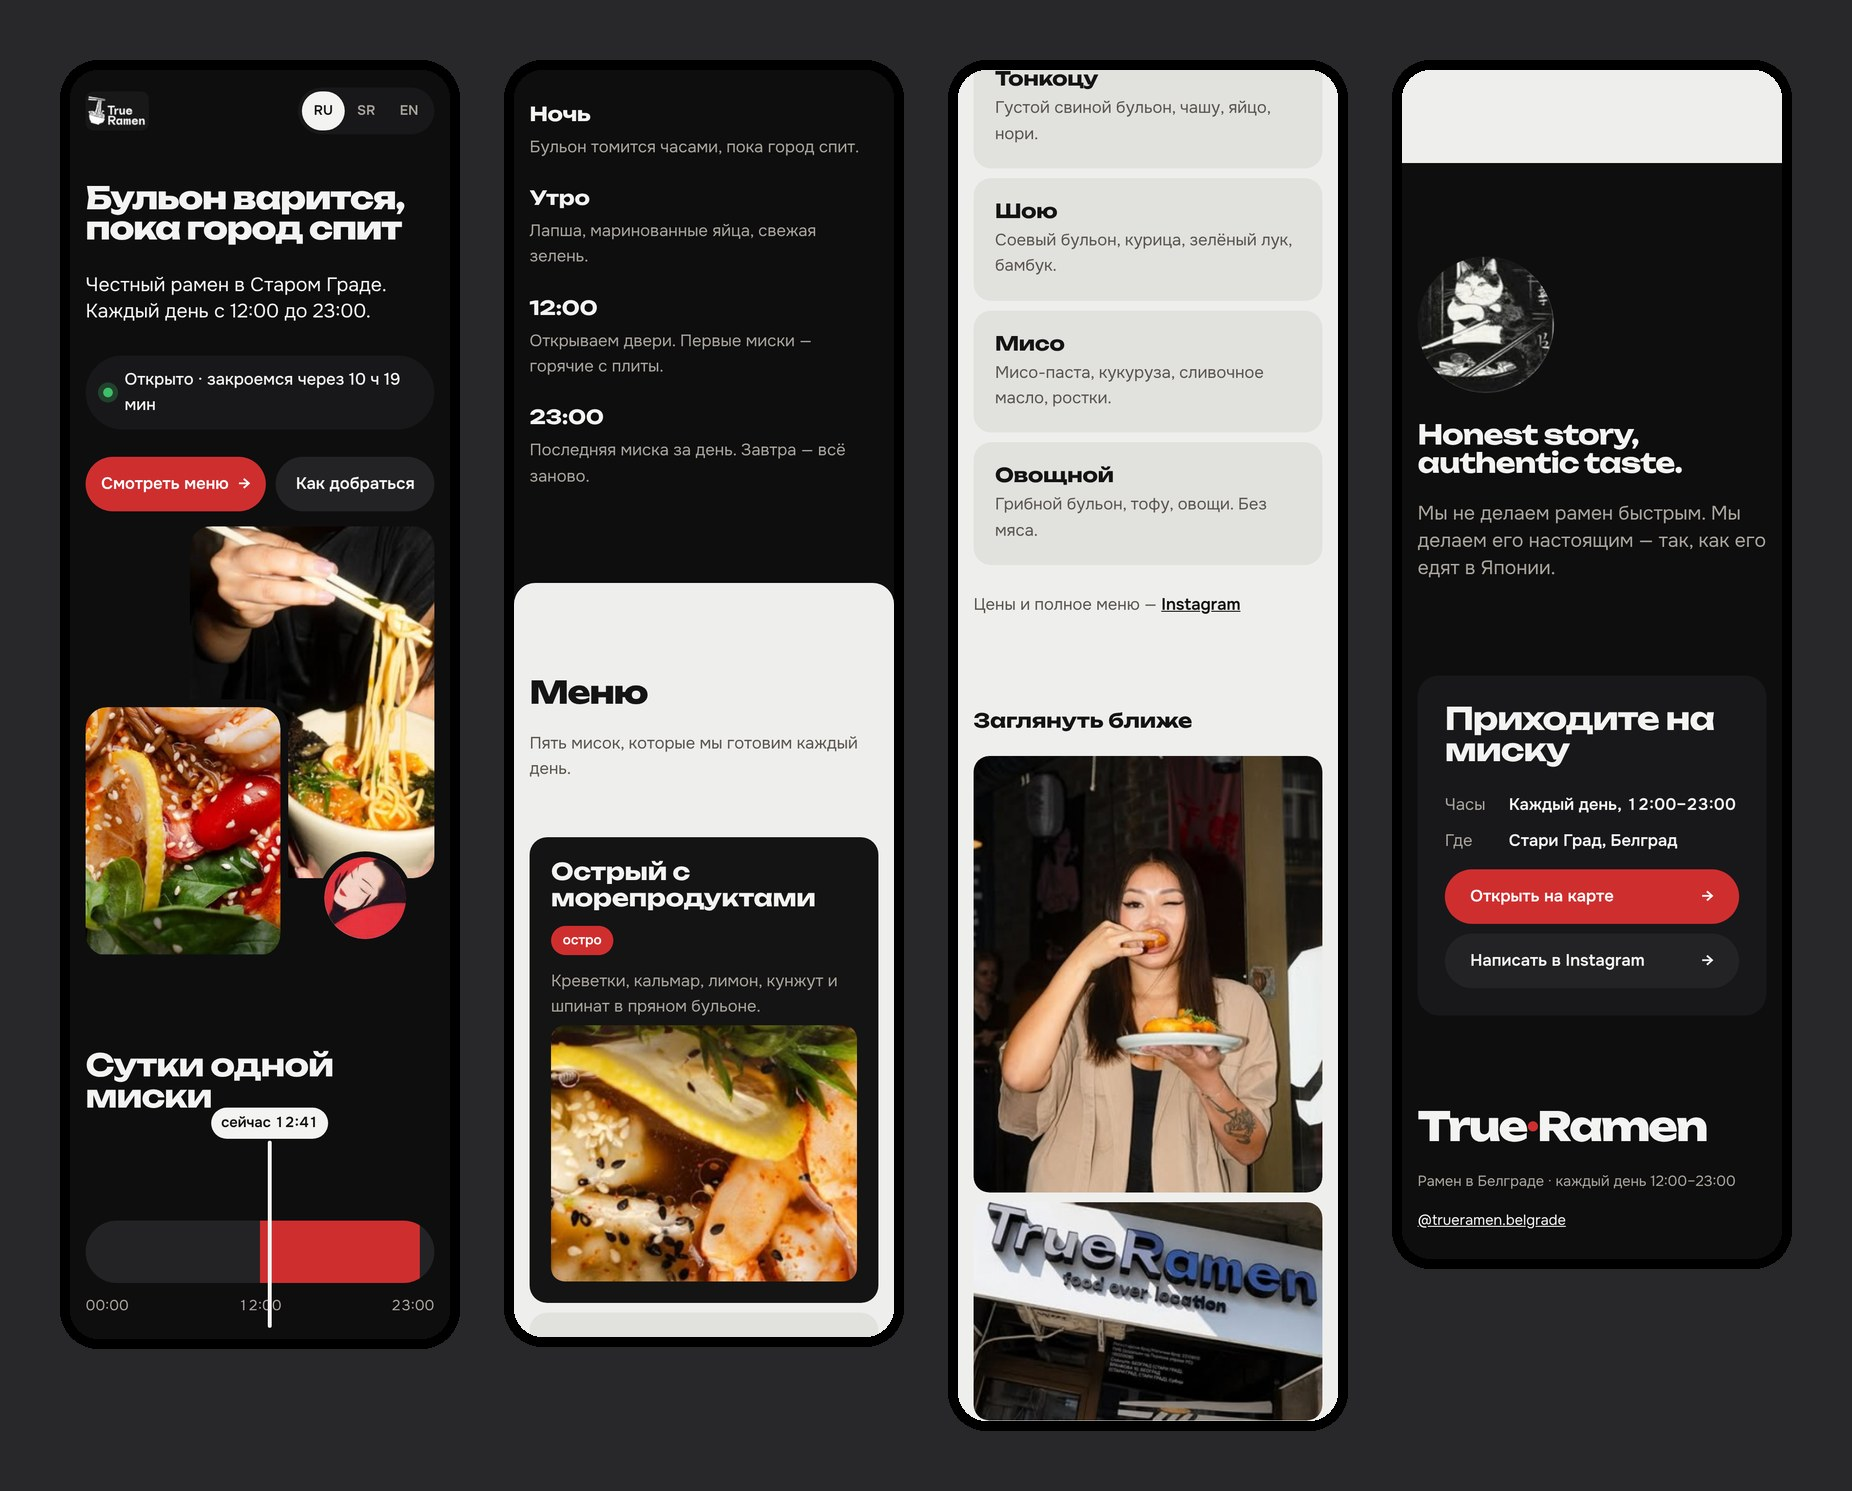
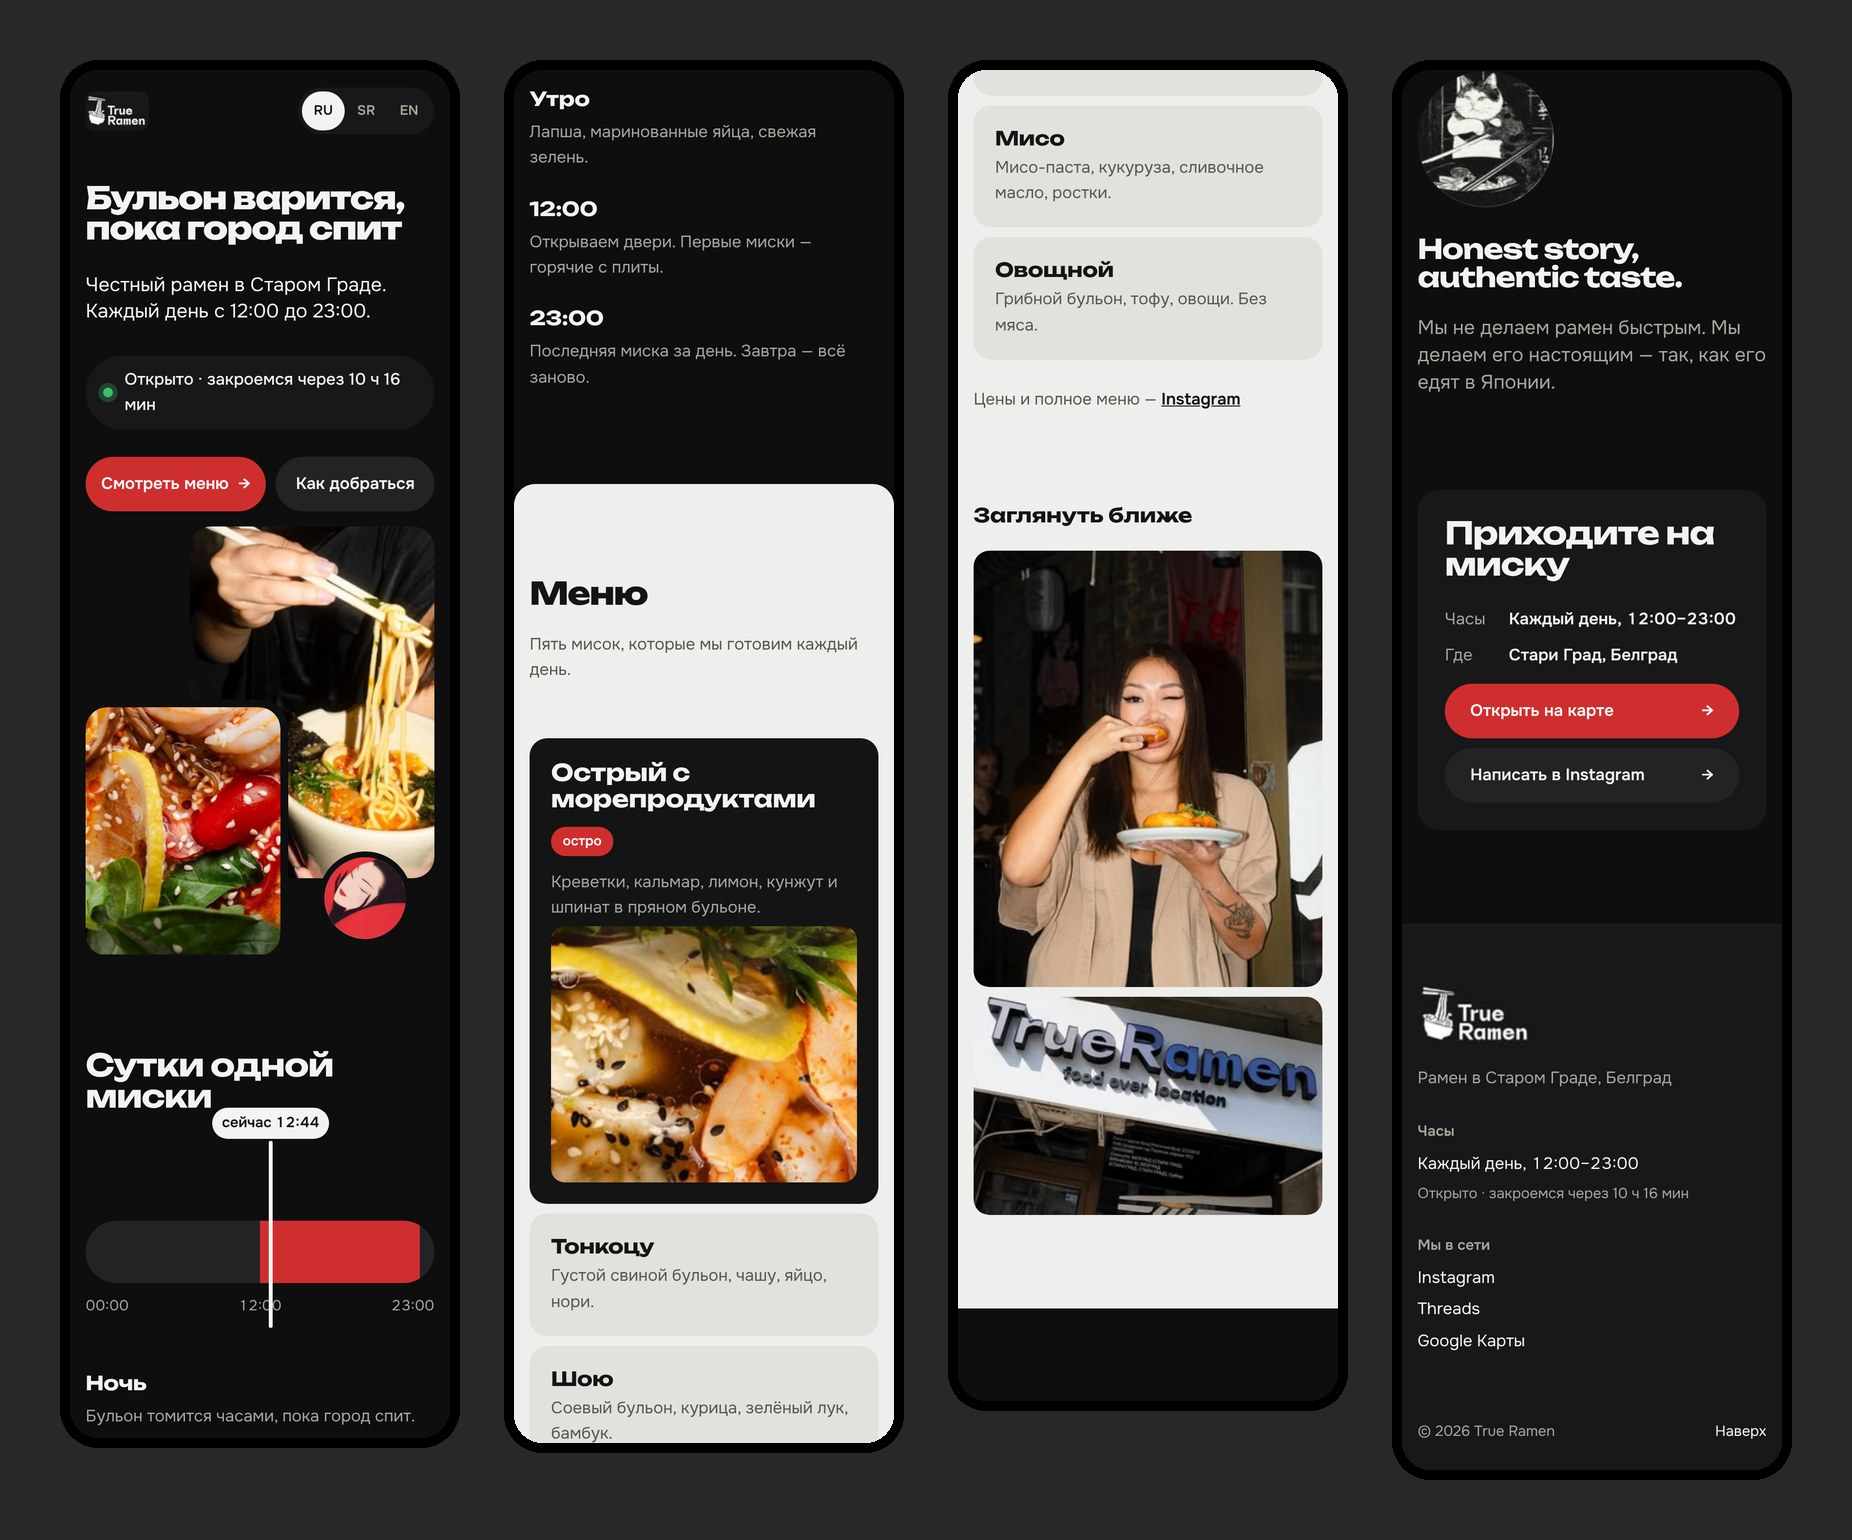
True Ramen: replace the giant wordmark with a plain footer
Logo, address, hours with the live open/closed line, and links to
Instagram, Threads and Google Maps, in RU/SR/EN.

Claude-Session: https://claude.ai/code/session_01UWZxjZDZsRNAHBMSR73c6z

diff --git a/sites/trueramen/index.html b/sites/trueramen/index.html
@@ -145,11 +145,16 @@ button{font:inherit;color:inherit}
 .visit .acts{display:flex;flex-direction:column;gap:10px}
 .visit .acts .btn{justify-content:space-between}
 
-.foot{padding:var(--section) var(--m) 28px}
-.word{font:800 clamp(2.5rem,10.6vw,13rem)/.85 var(--display);letter-spacing:-.05em;white-space:nowrap}
-.word span{color:var(--red)}
-.foot-meta{display:flex;justify-content:space-between;gap:16px;flex-wrap:wrap;margin-top:28px;color:var(--dim);font-size:var(--step-small)}
-.foot-meta a{color:var(--white)}
+.foot{margin-top:var(--section);padding:56px var(--m) 28px;background:var(--night-2)}
+.foot-grid{display:grid;grid-template-columns:1.4fr 1fr 1fr;gap:var(--m)}
+.foot-brand img{width:120px;height:auto;border-radius:10px}
+.foot-brand p{margin-top:16px;color:var(--dim);max-width:24ch}
+.foot h3{font:600 var(--step-small)/1.3 var(--text);color:var(--dim);margin-bottom:10px}
+.foot ul{list-style:none;margin:0;padding:0;display:grid;gap:6px}
+.foot a{color:var(--white);text-decoration:none;transition:color .2s}
+.foot a:hover{color:var(--red)}
+.foot-status{margin-top:6px;color:var(--dim);font-size:var(--step-small)}
+.foot-meta{display:flex;justify-content:space-between;gap:16px;flex-wrap:wrap;margin-top:48px;padding-top:20px;color:var(--dim);font-size:var(--step-small)}
 
 .js .rise{opacity:0;transform:translateY(22px)}
 .js .rise.in{opacity:1;transform:none;transition:opacity .7s var(--ease),transform .8s var(--ease)}
@@ -176,7 +181,7 @@ button{font:inherit;color:inherit}
   .grid .g2{aspect-ratio:16/10}
   .why{grid-template-columns:1fr}
   .bowl{padding:22px}
-  .word{font-size:10.6vw}
+  .foot-grid{grid-template-columns:1fr;gap:32px}
   .hero .acts .btn{flex:1;justify-content:center;white-space:nowrap;padding:0 16px}
   .strip-wrap{padding-top:72px}
 }
@@ -272,8 +277,12 @@ button{font:inherit;color:inherit}
 </main>
 
 <footer class="foot">
-  <div class="word" aria-hidden="true">True<span>·</span>Ramen</div>
-  <div class="foot-meta"><span data-i="foot">Рамен в Белграде · каждый день 12:00–23:00</span><a href="https://www.instagram.com/trueramen.belgrade/" target="_blank" rel="noopener">@trueramen.belgrade</a></div>
+  <div class="foot-grid">
+    <div class="foot-brand"><img src="img/logo.jpg" alt="True Ramen" width="151" height="93" loading="lazy"><p data-i="foot_tag">Рамен в Старом Граде, Белград</p></div>
+    <div><h3 data-i="v_hours">Часы</h3><p class="num" data-i="v_hours_v">Каждый день, 12:00–23:00</p><p class="foot-status" id="foot-status"></p></div>
+    <div><h3 data-i="foot_find">Мы в сети</h3><ul><li><a href="https://www.instagram.com/trueramen.belgrade/" target="_blank" rel="noopener">Instagram</a></li><li><a href="https://www.threads.net/@trueramen.belgrade" target="_blank" rel="noopener">Threads</a></li><li><a href="https://www.google.com/maps/search/?api=1&query=True+Ramen+Belgrade" target="_blank" rel="noopener" data-i="foot_map">Google Карты</a></li></ul></div>
+  </div>
+  <div class="foot-meta"><span>© 2026 True Ramen</span><a href="#top" data-i="foot_top">Наверх</a></div>
 </footer>
 
 <script>
@@ -283,12 +292,12 @@ button{font:inherit;color:inherit}
     sr:{nav_day:"Dan supe",nav_menu:"Meni",nav_visit:"Kako do nas",h1:"Supa se kuva<br>dok grad spava",sub:"Pošten ramen na Starom gradu. Svakog dana od 12 do 23 h.",cta_menu:"Pogledajte meni",cta_visit:"Kako do nas",
       day_h:"Dan jedne činije",b1_t:"Noć",b1:"Supa se satima krčka dok grad spava.",b2_t:"Jutro",b2:"Rezanci, marinirana jaja, sveže začinsko bilje.",b3:"Otvaramo vrata. Prve činije stižu pravo sa šporeta.",b4:"Poslednja činija za danas. Sutra sve iz početka.",
       menu_h:"Meni",menu_p:"Pet činija koje pravimo svakog dana.",hot:"ljuto",m1_t:"Ljuti sa plodovima mora",m1:"Škampi, lignje, limun, susam i spanać u začinjenoj supi.",m2_t:"Tonkotsu",m2:"Gusta svinjska supa, čašu, jaje, nori.",m3_t:"Šoju",m3:"Supa od soje, piletina, mladi luk, bambus.",m4_t:"Miso",m4:"Miso pasta, kukuruz, puter, klice.",m5_t:"Povrtni",m5:"Supa od pečuraka, tofu, povrće. Bez mesa.",menu_note:"Cene i ceo meni —",
-      look_h:"Pogledajte izbliza",why_p:"Ne pravimo ramen brzo. Pravimo ga pravim — onako kako se jede u Japanu.",visit_h:"Svratite na činiju",v_hours:"Radno vreme",v_hours_v:"Svakog dana, 12:00–23:00",v_where:"Gde",v_where_v:"Stari grad, Beograd",v_map:"Otvorite mapu",v_dm:"Pišite na Instagramu",foot:"Ramen u Beogradu · svakog dana 12:00–23:00",
+      look_h:"Pogledajte izbliza",why_p:"Ne pravimo ramen brzo. Pravimo ga pravim — onako kako se jede u Japanu.",visit_h:"Svratite na činiju",v_hours:"Radno vreme",v_hours_v:"Svakog dana, 12:00–23:00",v_where:"Gde",v_where_v:"Stari grad, Beograd",v_map:"Otvorite mapu",v_dm:"Pišite na Instagramu",foot_tag:"Ramen na Starom gradu, Beograd",foot_find:"Na mrežama",foot_map:"Google mape",foot_top:"Na vrh",
       open:"Otvoreno · zatvaramo za ",closed:"Zatvoreno · otvaramo u 12:00, za ",h:" h ",min:" min",now:"sada ",title:"True Ramen — ramen u Beogradu"},
     en:{nav_day:"A day of broth",nav_menu:"Menu",nav_visit:"Find us",h1:"Broth cooked<br>while you sleep",sub:"Honest ramen in Stari Grad, Belgrade. Every day, 12:00–23:00.",cta_menu:"See the menu",cta_visit:"How to get here",
       day_h:"A day of one bowl",b1_t:"Night",b1:"The broth simmers for hours while the city sleeps.",b2_t:"Morning",b2:"Noodles, marinated eggs, fresh greens.",b3:"Doors open. The first bowls come straight off the stove.",b4:"Last bowl of the day. Tomorrow, all over again.",
       menu_h:"Menu",menu_p:"Five bowls we cook every day.",hot:"spicy",m1_t:"Spicy seafood",m1:"Shrimp, squid, lemon, sesame and spinach in a spiced broth.",m2_t:"Tonkotsu",m2:"Rich pork broth, chashu, egg, nori.",m3_t:"Shoyu",m3:"Soy broth, chicken, spring onion, bamboo.",m4_t:"Miso",m4:"Miso paste, corn, butter, sprouts.",m5_t:"Vegetable",m5:"Mushroom broth, tofu, vegetables. No meat.",menu_note:"Prices and the full menu —",
-      look_h:"Take a closer look",why_p:"We don't make ramen fast. We make it real — the way it's eaten in Japan.",visit_h:"Come in for a bowl",v_hours:"Hours",v_hours_v:"Every day, 12:00–23:00",v_where:"Where",v_where_v:"Stari Grad, Belgrade",v_map:"Open the map",v_dm:"Message on Instagram",foot:"Ramen in Belgrade · every day 12:00–23:00",
+      look_h:"Take a closer look",why_p:"We don't make ramen fast. We make it real — the way it's eaten in Japan.",visit_h:"Come in for a bowl",v_hours:"Hours",v_hours_v:"Every day, 12:00–23:00",v_where:"Where",v_where_v:"Stari Grad, Belgrade",v_map:"Open the map",v_dm:"Message on Instagram",foot_tag:"Ramen in Stari Grad, Belgrade",foot_find:"Find us online",foot_map:"Google Maps",foot_top:"Back to top",
       open:"Open now · closes in ",closed:"Closed · opens at 12:00, in ",h:" h ",min:" min",now:"now ",title:"True Ramen — ramen in Belgrade"},
     ru:{open:"Открыто · закроемся через ",closed:"Закрыто · откроемся в 12:00, через ",h:" ч ",min:" мин",now:"сейчас ",title:"True Ramen — рамен в Белграде"}
   };
@@ -315,7 +324,9 @@ button{font:inherit;color:inherit}
   function tick(){
     var now=belgrade(),open=now>=720&&now<1380,s=document.getElementById('status');
     s.classList.toggle('open',open);
+    var fs=document.getElementById('foot-status');
     document.getElementById('status-t').textContent=open?t('open')+dur(1380-now):t('closed')+dur(((720-now)+1440)%1440);
+    if(fs)fs.textContent=document.getElementById('status-t').textContent;
     var hh=String(Math.floor(now/60)).padStart(2,'0'),mm=String(now%60).padStart(2,'0');
     document.getElementById('now').style.left=(now/1440*100)+'%';
     document.getElementById('now-t').textContent=t('now')+hh+':'+mm;
